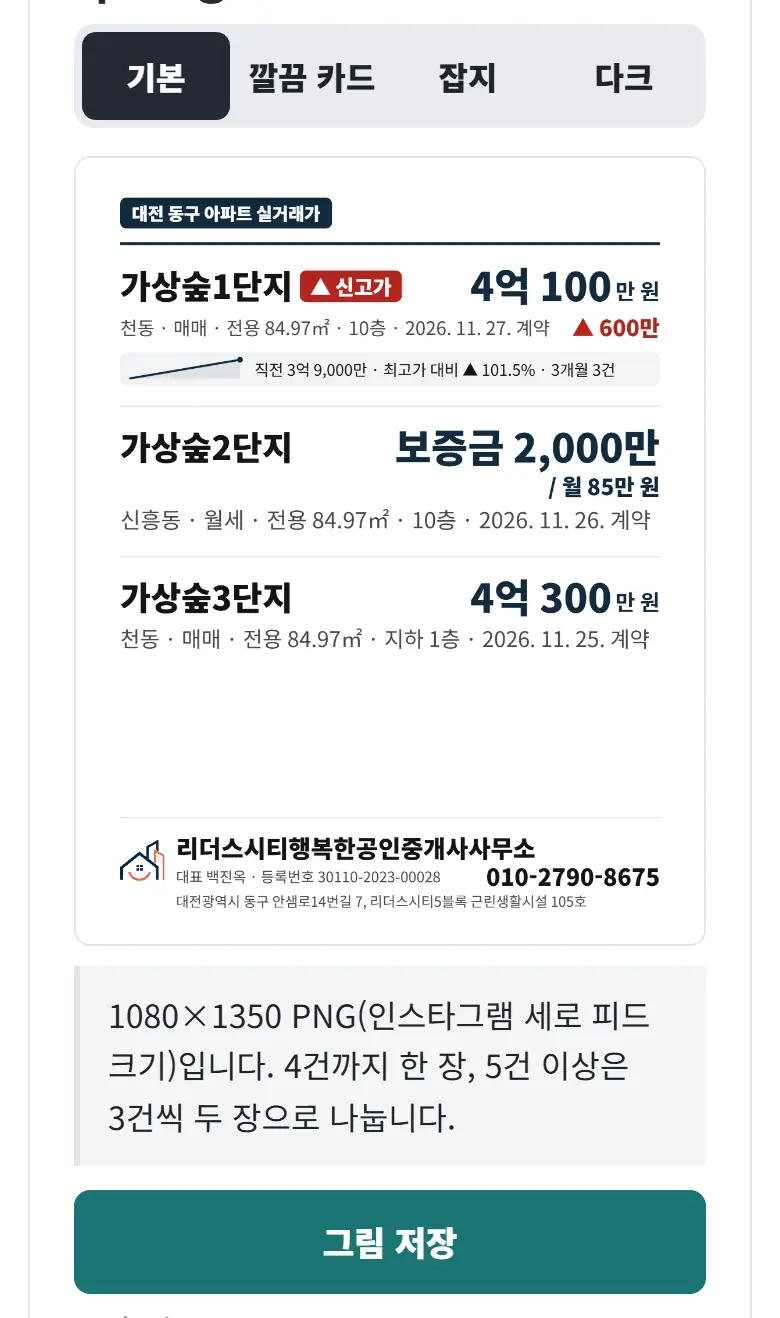
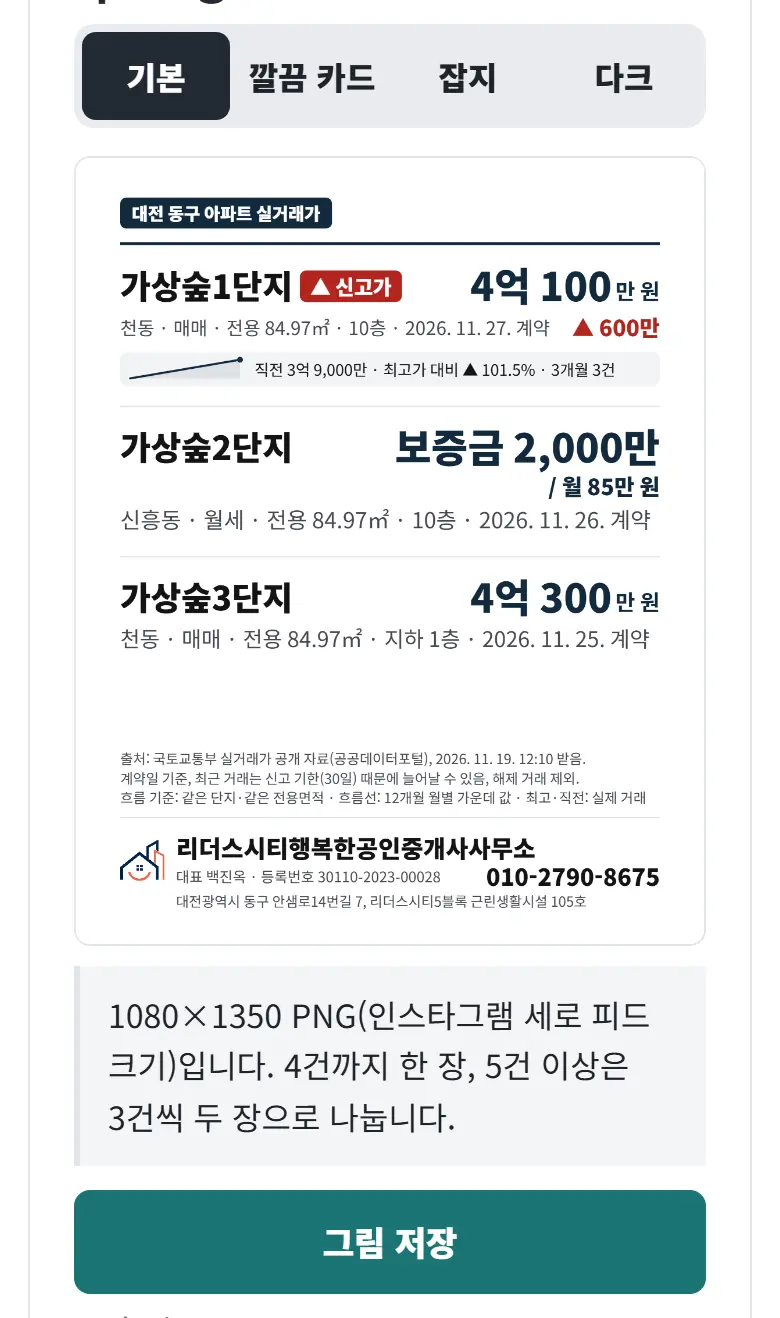
스레드 글은 거래만 한 줄씩 적고 출처·사무소 정보는 그림에만 넣음
실거래가 홍보물의 스레드 글에서 출처·흐름 기준·사무소 명시사항을 빼고, 카드 그림 아래쪽에 출처·받은 시각·안내를 작은 글로 다시 넣었습니다.

- 문제: 스레드에 올리면 글 대부분이 출처·사무소 정보였고, 6건이면 거래가 "그림에 정리했습니다" 한 줄로 줄었습니다. 같은 정보가 글과 그림에 겹쳤습니다.
- 원인: 글 4가지가 모두 같은 꼬리(출처·사무소 명시사항)를 붙이게 되어 있었고, 그림에서는 출처를 뺀 상태였습니다.
- 고친 것: 올릴 곳마다 꼬리를 넣을지 정하는 표(PROMO_TEXT_TAIL) 하나를 두고 스레드만 뺐습니다. 500자를 넘으면 거래 줄을 짧게 쓰는 단계를 더했고, 카드에는 출처 두 줄과 흐름 기준 한 줄을 작은 글로 넣었습니다. 인스타그램·블로그·카카오톡 글은 그대로입니다.
- 확인: 단위 시험(npm test) 1194개 통과, 실거래가 화면 시험(e2e) 통과, 사용 안내 그림 3장 다시 찍음, 카드 모양 4가지 × 1 ~ 6건 그림을 눈으로 확인했습니다.

Changed region(s): [[0.1538, 0.5599, 0.8308, 0.6222]]

diff --git a/src/lib/work-realprice-card.ts b/src/lib/work-realprice-card.ts
@@ -2,7 +2,7 @@
 // canvas 1080×1350에 그리고 toDataURL('image/png')로 내려받는다(설계서 22.10절). 그림 자료는 src/lib/work/realprice-promo.mjs의
 // promoCards()가 만들고, 이 파일은 그리기만 한다(서버 요청·브라우저 저장 없음). 신고가는 색만이 아니라 "▲ 신고가" 글자로 알린다.
 // 모양: 기본(흰 바탕·남색 줄) · 깔끔 카드(회색 바탕에 흰 둥근 칸) · 잡지(위 띠가 로고 산호색) · 다크(남색 바탕·밝은 산호색 금액).
-import { PROMO_CARD_SIZE, priceSplit } from "./work/realprice-promo.mjs";
+import { PROMO_BASIS_LABEL, PROMO_CARD_SIZE, priceSplit } from "./work/realprice-promo.mjs";
 import { sparkGeometry } from "./work/realprice-insight-view.mjs";
 // 줄 나누기·글·가로줄·로고 자르기는 업무 카드 공통 파일(보드 45번 C)에서 가져온다.
 import { CARD_COLORS, font, hline, loadLogo, text, width, type Logo, type Pen } from "./work-card-draw";
@@ -27,6 +27,7 @@ export type PromoCard = {
   areaLabel: string;
   range: string;
   items: CardItem[];
+  source: string[];
   basis: string;
   style: PromoStyle;
   office: Office;
@@ -41,6 +42,8 @@ const MAXW = W - PAD * 2;
 const C = CARD_COLORS;
 const HIGH_LABEL = "▲ 신고가";
 const PRESALE_LABEL = "분양권";
+const NOTE_PX = 24; // 아래 칸 위 출처·흐름 기준 줄: 카드에서 가장 작은 글(소재지)과 같은 크기
+const NOTE_GAP = 16; // 출처·흐름 기준 줄과 아래 칸 회색 선 사이
 const BAND_YELLOW = "#FFEFB8"; // 잡지 머리 띠: 연한 노랑(2026-11-24 사용자 요청 "바탕색은 좀더 연하거나 노란색 계열", 그 전 산호 #F06951)
 
 type Theme = {
@@ -335,7 +338,9 @@ function markOf(logo: Logo): Mark {
 }
 
 // 아래 칸: 집 모양 + 상호(크고 굵게) / 대표·등록번호(작게) + 연락처(크게) / 소재지(작게). 사무소 명시사항 5항목이 모두 들어간다.
-// 출처 상자는 두지 않는다(2026-11-24 사용자 답 "완전히 뺌"). 본문 글자를 줄여도 아래 칸 글자는 줄이지 않는다.
+// 그 위(회색 선 위)에 작은 글로 출처 두 줄(출처·받은 시각 / 계약일 기준·신고 기한·해제 제외)과 흐름 기준 줄(그 장에 흐름을 그린 거래가 있을 때만)을 둔다
+// (2026-11-25 사용자 요청 "출처랑 명함부분은 … 표에만 나오게끔". 2026-11-24 "완전히 뺌"으로 뺐던 출처 상자·흐름 기준 줄을 상자 없이 작은 글로 되돌림).
+// 글자는 카드에서 가장 작은 글(소재지 24px)과 같고 길면 줄을 나눈다(자르지 않음). 본문 글자를 줄여도 아래 칸 글자는 줄이지 않는다. 돌려주는 값은 작은 글의 위 끝이다.
 function foot(pen: Pen, card: PromoCard, t: Theme, logo: Logo) {
   const o = card.office;
   const markW = 76;
@@ -359,11 +364,15 @@ function foot(pen: Pen, card: PromoCard, t: Theme, logo: Logo) {
     }
     return y;
   };
+  const notes = (y0: number) => [...card.source, card.basis ? `${PROMO_BASIS_LABEL}: ${card.basis}` : ""].filter(Boolean)
+    .reduce((y, value) => text(pen, value, PAD, y, { px: NOTE_PX, color: t.soft, lh: 1.4 }), y0);
   const h = measure(pen, () => body(0));
   const top = H - BOTTOM - h;
+  const noteTop = top - NOTE_GAP - measure(pen, () => notes(0));
+  notes(noteTop);
   if (pen.draw) { pen.ctx.fillStyle = t.panel ? "#D7DCE1" : t.edge; pen.ctx.fillRect(PAD, top, MAXW, 2); }
   body(top);
-  return top;
+  return noteTop;
 }
 
 export type CardResult = { dataUrl: string; overflow: boolean; minBodyPx: number };

diff --git a/docs/work-tools/리더스시티 행복한부동산 중개업무 도구 테스트 체크리스트.md b/docs/work-tools/리더스시티 행복한부동산 중개업무 도구 테스트 체크리스트.md
@@ -1066,8 +1066,8 @@
 |---|---|---|---|---|
 | TK-36 [화면] | 실거래가·실거래가 설정 화면을 360·768·1220·1221·1280px에서 가짜 API로 | 가로 넘침 0, 1220px 이하 세 줄 카드·1221px 이상 표, "신고가"·"해제"·"새로 들어옴"이 글자로 보임, 상태 화면 6가지, 키보드로 거르기·보기 바꾸기·30건 더 보기·관심 단지 찾기·넣기·빼기·지금 다시 받기 가능(목록 고르기·홍보물 만들기는 P1-e에서 같은 방법으로), 콘솔 오류 0. P1-f D안(2026-11-20): 휴대폰·PC 같은 순서, 상태 한 줄은 문제 있을 때만 펼침, 390×844에서 첫 거래 위쪽이 631px 이하(매매 채우는 중에도 첫 거래가 아래 탭 위에 다 보임), 거르기 단추 6개·찾기·다 담기·담기 단추가 44px 이상(마우스를 쓰는 1221px 이상 PC는 36px 이상, 2026-11-23), 찾기는 '찾기'·Enter일 때만(한글 조합 중 Enter 무시, 비우면 다시 전체), "주요 거래"는 `view=major` 한 번이고 기간·분양권만·종류·해제·직거래가 잠김, "신고가만"은 `limit=100`, 켜짐 줄·"모두 끄기", 0건이면 까닭과 바로 할 일 단추 | 검토·시험(Playwright) | 통과(PR #78 TR-11(2026-11-20 날개-2): 가짜 API로 두 화면 360·768·979·980·1220·1221·1280px 가로 넘침 0, 1220px 카드·1221px 표, '신고가'·'해제'·'새로 들어옴'·'직거래' 글자, 상태 화면(꺼짐·설정 누락·받기 전·처음 채우는 중·받기 멈춤·0건·불러오는 중·끝 상한 오류), 키보드로 거르기·보기 바꾸기·30건 더 보기·단지 찾기·넣기·빼기·지금 다시 받기, 콘솔 오류 0. PR #80 TR-11(2026-11-20 날개-2): 목록 고르기·홍보물 만들기 키보드(Space로 6건 → 막대 링크 Enter → 홍보물 화면 → 내려받기·라디오 화살표·글 칸·복사·인쇄), 고르기 막대가 보일 때 Tab 250번 포커스 가림 0(목록 360 ~ 1440px 10폭 + 홍보물 390·1280px, 부드러운 스크롤·움직임 줄이기). PR #81 TR-11(2026-11-20 날개-2): D안 390×844 첫 거래 위쪽 627px(기준 631 이하, 아래 탭 위에 다 보임), 거르기 단추 6개·찾기·다 담기·담기 44px 이상, 찾기 '찾기'·Enter만(한글 조합 중 Enter 무시), 주요 거래 `view=major` 한 번, 신고가만 `limit=100`, 모두 끄기, 0건 안내 단추, 콘솔 오류 0은 E2E 43 passed, 담기 막대가 보일 때 Tab 220번 가림 0(360 ~ 1440px 10폭 × 부드러운 스크롤·움직임 줄이기)) 2026-11-23 D-1 사본 시험 2026-11-23, 날개-2, 바탕 master 50c09c0: 1280px 확인을 36px 기준으로 바꾼 같은 E2E 통과(전체 E2E 188/188), 360 ~ 390px의 44px 확인은 그대로 |
 | TK-37 [화면] | 관리자 아래 단계 메뉴 | "실거래가"(P3 뒤 "글 초안")가 더해짐, 알약 줄(2026-11-23 전 이름은 작은 탭)이 넘치면 가로로 밀림(980px 이상도 같음), 탭 미리 그리기 prerender 목록에 단계 P 화면 없음(prefetch만), 업무 도구 첫 화면의 도구 3개 그대로 | 검토·시험(Playwright) | 통과(PR #78 TR-11(2026-11-20 날개-2): 업무 도구 아래 단계 다섯째에 '실거래가'가 더해짐(설정 화면에서는 지금 구역 `aria-current="true"`), 360px에서 작은 탭이 넘쳐 가로로 밀리고 처음 열 때 지금 탭이 오른쪽 16px 여백을 두고 보임(320 ~ 430px), prerender 규칙에 두 화면이 안 걸림(prefetch만, 시험 고정), 업무 도구 첫 화면 도구 3개 그대로, 관리 15화면 HTML 대조에서 기존 화면의 지금 표시 변화 0) 2026-11-23 D-1 사본 시험 2026-11-23, 날개-2, 바탕 master 50c09c0: 1280px에서 업무 도구 알약 11개가 한 줄에 다 들어가지 않아 마지막 '매물 안내지'가 지금 화면일 때 줄을 옮겨 두는지 `e2e/admin-listing-paper.spec.mjs` "PC 위 알약 줄 1280px"가 봄(통과). 폭마다 잰 값은 TU-15·TU-22 |
-| TK-38 | 홍보물 글 4가지(가상 거래 3건) | 출처·자료를 받은 시각·계약일 기준·신고 기한 안내·해제 제외 안내·사무소 명시사항 5항목이 붙음, 동 번호 0, 층 숫자 그대로, 금액이 자료와 같음. 해제된 거래는 고를 수 없음. 신고가가 있으면 판정 기준(2006년 1월 이후 매매와 비교)이 붙고, `recordHigh`가 null이면 "신고가" 말이 없음. 고른 뒤 해제된 거래·찾지 못한 거래는 빼고 건수를 알림. 명시사항이 비거나 받은 시각을 모르면 만들지 않음. 2026-11-25 보탬: 카드에 흐름을 그린 매매가 있을 때만 출처 줄 아래 "흐름 기준: …" 한 줄(그린 항목만, 카드 자료 `basis`와 같은 글), 흐름을 못 받았거나 전월세만이면 줄 없음, 스레드는 넣어서 500자를 넘으면 빼고 지금 글 그대로(결과 칸은 보탬 전 검토). 스레드 500자 안(`tests/work-realprice-promo.test.mjs`, `trades?ids=`는 `tests/work-realprice-query.test.mjs`. P1-f의 `q`·`view=major`와 `q`·`view` 없는 요청의 응답이 바꾸기 전과 같음도 같은 파일) | 검토·시험(자동) | 통과(PR #80 TR-11(2026-11-20 날개-2): 자동 시험 `tests/work-realprice-promo.test.mjs`·`work-realprice-query.test.mjs` 통과(`npm test` 499/499), 날개-2가 따로 만든 최악 자료(단지명 25자 이상, 동 번호·지번 칸에 표식 글자, 6·1·3건) 88가지 NG 0 — 글 4가지에 표식 0, 명시사항 5항목·출처·받은 시각·계약일 기준·신고 기한·해제 안내가 붙음, 신고가면 2006년 1월 기준 문구, `recordHigh` null이면 '신고가' 0, 명시사항 빈 칸·받은 시각 없음이면 만들지 않음, 스레드 363 / 500자. `trades?ids=` 7가지(형식·7개·두 번 → 400, 목록 매개변수와 섞으면 400, 해제·못 찾음), `ids` 없는 응답은 바탕 코드와 같음. PR #81 TR-11(2026-11-20 날개-2): `q`·`view` 없는 요청 13가지 응답이 바탕 코드(38821da)와 같음, `view=major`에 목록 매개변수(`to` 포함)가 같이 오면 400, 특수문자 `q` 9가지 200) |
-| TK-39 [화면] | 카드 그림 내려받기 | 1080×1350 PNG, 파일 이름 `realprice-YYYYMMDD.png`(두 장이면 `-1`·`-2`), 운영 CSP를 붙인 화면에서 CSP 위반 0, 그림 안 글자가 글 4가지와 같은 숫자(그림과 글이 같은 순수 함수 값을 씀). 목록 고르기는 최대 6건·해제 막음·키보드 Space, 360·768·1280px 가로 넘침 0. P1-f(2026-11-20): 목록은 '담기' 단추(✓ 담음·담을 수 없음), '위에서 6건 담기'는 해제를 건너뛰고 남은 자리만큼 담음. 홍보물 화면은 담은 거래 요약 → "어디에 올릴까요?"(인스타그램이 처음) → ① 그림 저장 ② (곳) 글 복사 ③ 붙여 넣기 순서 글이 올릴 곳에 맞춰 바뀌고, 누른 단추에 ✓ 표시가 남음. 인스타그램 해시태그 12개 안(고정·법정동·단지 이름 포함) | 검토·시험(Playwright) | 통과(PR #80 TR-11(2026-11-20 날개-2): 카드 2장 1080×1350, 파일 `realprice-20261120-1.png`·`-2.png`, 운영 CSP를 붙인 화면에서 위반 0, 360·390·430·768·979·980·1024·1280px 가로 넘침 0·콘솔 오류 0, 목록 고르기 해제 잠김·6건 뒤 나머지 잠김·키보드 Space. PR #81 TR-11(2026-11-20 날개-2): '담기'(✓ 담음)·'위에서 6건 담기'(해제 건너뜀)·누른 단추 ✓는 E2E, 올릴 곳 4개(인스타그램이 처음) → ② 복사 글 → ③ 붙여 넣기 글이 곳마다 바뀜(390px), 동 번호 표식 0. 해시태그 12개 안: PR #82(2026-11-20, 단위·E2E CI 통과) 뒤 master f7dc990 코드로 날개-2가 1 ~ 6건을 따로 세어 9·12·12·12·12·12개, 단지 이름 최대 3개 남음) |
+| TK-38 | 홍보물 글 4가지(가상 거래 3건) | 출처·자료를 받은 시각·계약일 기준·신고 기한 안내·해제 제외 안내·사무소 명시사항 5항목이 붙음, 동 번호 0, 층 숫자 그대로, 금액이 자료와 같음. 해제된 거래는 고를 수 없음. 신고가가 있으면 판정 기준(2006년 1월 이후 매매와 비교)이 붙고, `recordHigh`가 null이면 "신고가" 말이 없음. 고른 뒤 해제된 거래·찾지 못한 거래는 빼고 건수를 알림. 명시사항이 비거나 받은 시각을 모르면 만들지 않음. 2026-11-25 보탬: 카드에 흐름을 그린 매매가 있을 때만 출처 줄 아래 "흐름 기준: …" 한 줄(그린 항목만, 카드 자료 `basis`와 같은 글), 흐름을 못 받았거나 전월세만이면 줄 없음, 스레드는 넣어서 500자를 넘으면 빼고 지금 글 그대로(결과 칸은 보탬 전 검토). 2026-11-25 두 번째 보탬(스레드 꼬리, 사용자 요청 15:57:48): 스레드 글은 머리 줄·빈 줄·거래 한 줄씩(신고가가 있으면 판정 기준 한 줄)뿐이고 출처·받은 시각·안내·흐름 기준·사무소 명시사항이 없음(`PROMO_TEXT_TAIL`), 500자를 넘으면 거래 줄을 짧게('전용'·'계약'만 뺌) → 그래도 넘으면 '그림에 정리' 한 줄, 20자 단지 이름 6건도 한 줄씩 500자 안. 인스타그램·블로그·카카오톡 글은 그 전과 같음(결과 칸은 보탬 전 검토). 스레드 500자 안(`tests/work-realprice-promo.test.mjs`, `trades?ids=`는 `tests/work-realprice-query.test.mjs`. P1-f의 `q`·`view=major`와 `q`·`view` 없는 요청의 응답이 바꾸기 전과 같음도 같은 파일) | 검토·시험(자동) | 통과(PR #80 TR-11(2026-11-20 날개-2): 자동 시험 `tests/work-realprice-promo.test.mjs`·`work-realprice-query.test.mjs` 통과(`npm test` 499/499), 날개-2가 따로 만든 최악 자료(단지명 25자 이상, 동 번호·지번 칸에 표식 글자, 6·1·3건) 88가지 NG 0 — 글 4가지에 표식 0, 명시사항 5항목·출처·받은 시각·계약일 기준·신고 기한·해제 안내가 붙음, 신고가면 2006년 1월 기준 문구, `recordHigh` null이면 '신고가' 0, 명시사항 빈 칸·받은 시각 없음이면 만들지 않음, 스레드 363 / 500자. `trades?ids=` 7가지(형식·7개·두 번 → 400, 목록 매개변수와 섞으면 400, 해제·못 찾음), `ids` 없는 응답은 바탕 코드와 같음. PR #81 TR-11(2026-11-20 날개-2): `q`·`view` 없는 요청 13가지 응답이 바탕 코드(38821da)와 같음, `view=major`에 목록 매개변수(`to` 포함)가 같이 오면 400, 특수문자 `q` 9가지 200) |
+| TK-39 [화면] | 카드 그림 내려받기 | 1080×1350 PNG, 파일 이름 `realprice-YYYYMMDD.png`(두 장이면 `-1`·`-2`), 운영 CSP를 붙인 화면에서 CSP 위반 0, 그림 안 글자가 글 4가지와 같은 숫자(그림과 글이 같은 순수 함수 값을 씀). 목록 고르기는 최대 6건·해제 막음·키보드 Space, 360·768·1280px 가로 넘침 0. P1-f(2026-11-20): 목록은 '담기' 단추(✓ 담음·담을 수 없음), '위에서 6건 담기'는 해제를 건너뛰고 남은 자리만큼 담음. 홍보물 화면은 담은 거래 요약 → "어디에 올릴까요?"(인스타그램이 처음) → ① 그림 저장 ② (곳) 글 복사 ③ 붙여 넣기 순서 글이 올릴 곳에 맞춰 바뀌고, 누른 단추에 ✓ 표시가 남음. 인스타그램 해시태그 12개 안(고정·법정동·단지 이름 포함). 2026-11-25 보탬(그림 출처): 카드 아래 칸 회색 선 위 24px 작은 글로 출처·받은 시각, 계약일 기준·신고 기한·해제 제외 안내, 흐름을 그린 장에만 흐름 기준 줄이 있고 4모양 모두 그림 밖·위아래로 잘린 글자 0(결과 칸은 보탬 전 검토) | 검토·시험(Playwright) | 통과(PR #80 TR-11(2026-11-20 날개-2): 카드 2장 1080×1350, 파일 `realprice-20261120-1.png`·`-2.png`, 운영 CSP를 붙인 화면에서 위반 0, 360·390·430·768·979·980·1024·1280px 가로 넘침 0·콘솔 오류 0, 목록 고르기 해제 잠김·6건 뒤 나머지 잠김·키보드 Space. PR #81 TR-11(2026-11-20 날개-2): '담기'(✓ 담음)·'위에서 6건 담기'(해제 건너뜀)·누른 단추 ✓는 E2E, 올릴 곳 4개(인스타그램이 처음) → ② 복사 글 → ③ 붙여 넣기 글이 곳마다 바뀜(390px), 동 번호 표식 0. 해시태그 12개 안: PR #82(2026-11-20, 단위·E2E CI 통과) 뒤 master f7dc990 코드로 날개-2가 1 ~ 6건을 따로 세어 9·12·12·12·12·12개, 단지 이름 최대 3개 남음) |
 | TK-40 [수동] | A4 인쇄 미리보기·PDF로 저장 | 한 장, 메뉴·단추 없음, 글자 잘림 없음(자동 보조: E2E가 인쇄 미디어에서 메뉴·단추 숨김과 PDF 1쪽을 확인, 실제 인쇄 창은 사람이 확인) | 검토·시험 | 미실행(자동 보조 통과, PR #80 TR-11(2026-11-20 날개-2): 인쇄 미디어에서 보이는 단추·링크·메뉴 0, PDF 1쪽(카드 1장·2장 모두). 실제 인쇄 미리보기 창은 사람이 확인) |
 
 ### 7a.6 실기기·운영 실측

diff --git a/DESIGN.md b/DESIGN.md
@@ -358,8 +358,8 @@ components:
 ### 실거래가 홍보물(단계 P P1-e 운영자 승인 2026-11-20 10:43:09, 2026-11-24 새 모양: 사용자 답 2026-11-24 10:24:08 "화면 배치까지"·출처 상자 "완전히 뺌"·"상호를 크게"·흐름 줄 "지금 그대로", 10:46:13 처음 모양 "기본 (추천)"·"4곳까지 1장 (추천)"(비율은 지금처럼 4:5)·딱지 "▲ 신고가 (추천)")
 
 - 목록 담기(2026-11-24): 글자 없는 체크칸. 누르는 곳은 44px 칸 전체(진짜 체크 칸을 투명하게 덮음), 보이는 것은 26px 네모(1221px 이상 + 마우스는 36px 칸·22px 네모). 담으면 남색 바탕 흰 ✓, 해제 거래·다 찬 뒤 나머지는 옅은 회색 네모로 잠근다. 담은 줄은 옅은 남색 바탕. 1221px 이상 표는 맨 앞 열 "담기", 1220px 이하 카드는 오른쪽 아래(넷째 줄 '흐름·직전 거래' 끝). 시안처럼 카드 왼쪽에 두면 줄마다 48px이 줄어 390px에서 첫째 줄(단지 이름·딱지·전용면적)이 꺾여 첫 카드가 아래 탭에 가리므로 오른쪽 아래에 둔다. 딱지는 단지 이름 옆("▲ 신고가" 남색, "분양권" 옅은 남색 바탕 남색 글자), 신고가 거래는 금액 옆(표는 금액 아래)에 빨간 굵은 "▲ 300만"(앞선 최고보다 오른 금액, 화면 읽기는 "앞선 최고보다"를 덧붙임). 하나라도 담으면 목록 아래에 남색 윗선 막대("담은 거래 n건" · 검정 주 단추 "홍보물 만들기" · "비우기")가 붙는다. 979px 이하는 막대를 한 줄로 아래 탭 위에 둔다.
-- 카드 그림(1080×1350, 4:5): 모양 4가지 — 기본(흰 종이, 남색 칩·줄, 처음 모양), 깔끔 카드(#EEF1F4 바탕에 흰 둥근 판), 잡지(머리 띠 연한 노랑 #FFEFB8, 칩 검정. 2026-11-24 전에는 산호 #F06951), 다크(남색 바탕, 금액 #FFB49F). 위 칸은 "대전 동구 아파트 실거래가" 칩(받은 시각은 그림에 넣지 않고 글에만)과, 1건일 때만 제목("가상숲1단지 매매 신고가", 단지 이름이 제목에만 있음). 여러 건 제목("실거래 n건 · n/m장")·계약일 범위·흐름선 기준 줄은 그리지 않는다(2026-11-24 사용자 요청). 1건은 딱지·설명 → 큰 금액(100px 숫자 + 작은 단위) + 오른쪽 "▲ 오름 폭" → "○ 직전 거래" → 큰 흐름선(앞선 최고 점선, 남는 자리만큼 최대 240px 더 키움) → 칸 3개(앞선 최고·최고가 대비·최근 3개월). 여러 건은 줄마다 단지 이름 + 딱지, 오른쪽 금액(숫자 + 작은 단위) → 지역·종류·전용면적·층·계약일 + "▲ 오름 폭" → 회색 흐름 줄(흐름선 150px + 직전·대비·3개월 글). 신고가는 "▲ 신고가" 빨강(#B3261E, 다크는 #FF8A73), 분양권은 옅은 남색 딱지. 긴 단지 이름은 85%까지 줄인 뒤 끝을 "…"로 줄인다.
-- 카드 아래 칸(줄이지 않음): 회색 선 → 로고에서 자른 집 모양(다크는 흰 둥근 판 위) + 상호 42px 굵게, "대표 · 등록번호" 25px, 오른쪽 연락처 40px 굵게, 소재지 24px. 출처 상자·신고 기한 안내·신고가 판정 기준은 그림에서 빼고 글 4가지에만 둔다. 받은 시각을 모르거나 명시사항 5항목이 비면 만들지 않는다(그대로). 동 번호는 넣지 않는다.
+- 카드 그림(1080×1350, 4:5): 모양 4가지 — 기본(흰 종이, 남색 칩·줄, 처음 모양), 깔끔 카드(#EEF1F4 바탕에 흰 둥근 판), 잡지(머리 띠 연한 노랑 #FFEFB8, 칩 검정. 2026-11-24 전에는 산호 #F06951), 다크(남색 바탕, 금액 #FFB49F). 위 칸은 "대전 동구 아파트 실거래가" 칩(받은 시각은 위 칸에 넣지 않고 아래 칸 위 작은 글에)과, 1건일 때만 제목("가상숲1단지 매매 신고가", 단지 이름이 제목에만 있음). 여러 건 제목("실거래 n건 · n/m장")·계약일 범위는 그리지 않는다(2026-11-24 사용자 요청. 흐름선 기준 줄은 2026-11-25부터 아래 칸 위 작은 글로 그림). 1건은 딱지·설명 → 큰 금액(100px 숫자 + 작은 단위) + 오른쪽 "▲ 오름 폭" → "○ 직전 거래" → 큰 흐름선(앞선 최고 점선, 남는 자리만큼 최대 240px 더 키움) → 칸 3개(앞선 최고·최고가 대비·최근 3개월). 여러 건은 줄마다 단지 이름 + 딱지, 오른쪽 금액(숫자 + 작은 단위) → 지역·종류·전용면적·층·계약일 + "▲ 오름 폭" → 회색 흐름 줄(흐름선 150px + 직전·대비·3개월 글). 신고가는 "▲ 신고가" 빨강(#B3261E, 다크는 #FF8A73), 분양권은 옅은 남색 딱지. 긴 단지 이름은 85%까지 줄인 뒤 끝을 "…"로 줄인다.
+- 카드 아래 칸(줄이지 않음): 회색 선 → 로고에서 자른 집 모양(다크는 흰 둥근 판 위) + 상호 42px 굵게, "대표 · 등록번호" 25px, 오른쪽 연락처 40px 굵게, 소재지 24px. 회색 선 위에는 작은 글(24px, 옅은 글자색, 길면 줄을 나눔)로 "출처: 국토교통부 실거래가 공개 자료(공공데이터포털), (받은 시각) 받음." → 계약일 기준·신고 기한·해제 제외 짧은 안내 → 흐름을 그린 장에만 "흐름 기준: …"을 둔다(2026-11-25 사용자 요청 "출처랑 명함부분은 한군데만 나오면 되니까 표에만 나오게끔". 상자는 두지 않음, 스레드 글에서는 출처·명시사항을 뺌). 신고가 판정 기준은 그림에서 빼고 글 4가지에만 둔다. 받은 시각을 모르거나 명시사항 5항목이 비면 만들지 않는다(그대로). 동 번호는 넣지 않는다.
 - 4건까지 한 장, 5건은 3 + 2, 6건은 3 + 3(담기 최대 6건 그대로). 여러 건은 아래 칸 위에 자리가 남으면 거래 줄을 1.45배까지 키우고(회색 흐름 줄 글자는 키우지 않고, 키운 배율이 1배보다 글을 더 자르면 쓰지 않음), 겹치면 본문만 5%씩 80%까지 줄인다.
 - 홍보물 화면(2026-11-24 새 모양): 위 2px 남색 선의 담은 거래 요약(단지 · 종류 / 금액, 밑줄 "← 거래 다시 고르기") → "카드 모양" 띠(회색 바탕 4칸 기본·깔끔 카드·잡지·다크, 44px, 고른 칸 남색 바탕) → 카드 그림(펼쳐 보임) → 크기 설명 → "그림 저장"(두 장이면 "1장 저장"·"2장 저장", 52px 주 단추, 누르면 남색 테두리 흰 바탕 "✓ … 저장함") → "올릴 곳에 맞춘 글 복사" 단추 4개(인스타그램·스레드·블로그·카카오톡, 979px 이하 2×2·760px 이상 4칸, 56px, 이름 굵게 + 아래 작은 "글 복사", 누른 단추만 남색 바탕 "✓ 복사됨") → 그 아래 한 줄(글자 수·해시태그 수 + 그 앱에서 할 일) → 접힌 "글 미리 보기"(마지막으로 누른 곳 글) → 맨 아래 "종이로 뽑기(A4)". 모양을 바꾸면 서버를 부르지 않고 다시 그리며 저장·복사 표시는 지운다. 고른 모양은 화면 메모리에만 두고 브라우저 저장소에 넣지 않는다(화면을 떠나면 기본). 자동 복사가 막히면 글 미리 보기를 펼쳐 글을 골라 둔다. 목록 오른쪽 미리보기 칸(1221px 이상)도 같은 모양 띠(마우스 PC 36px)·올릴 곳 단추 4개(늘 2×2, 마우스 PC 48px)를 쓴다. 인쇄는 카드 그림만 A4 세로 한 장(1장 150mm, 2장 88mm씩 나란히).
 

diff --git a/docs/work-tools/리더스시티 행복한부동산 중개업무 도구 설계서.md b/docs/work-tools/리더스시티 행복한부동산 중개업무 도구 설계서.md
@@ -3010,6 +3010,12 @@ WHERE p.cancelled = 0 AND (p.dealing_gbn IS NULL OR p.dealing_gbn = 'broker');
   - 홍보물 화면: 카드 모양 라디오(`name=promo-style`) → 카드 그림 → 그림 저장 → 올릴 곳 단추 4개(`data-promo-copy`, 누르면 그곳 글을 복사하고 그 단추만 "✓ 복사됨", 아래 줄에 `promoSteps`의 글자 수·할 일) → 접힌 글 미리 보기(마지막으로 누른 곳, 처음은 인스타그램) → A4. 자동 복사가 막히면 글 미리 보기를 펼쳐 글을 골라 둔다. 미리보기 칸(1221px 이상)도 같은 라디오(`name=rt-promo-style`)·단추(`data-rt-preview-copy`)를 쓰고, 모양만 바뀌면 이미 다시 읽은 거래로 그린다.
   - 목록: 담기 칸을 표 맨 앞 열로 옮기고 체크칸 모양(`span.rt-pick-mark`)으로 바꿨다(1220px 이하 카드는 오른쪽 아래 그대로, 390px 첫째 줄이 꺾이지 않게). 딱지 "분양권"·"신고가"는 단지 이름 칸, 신고가 오름 폭(`small.rt-up`)은 금액 칸에 둔다.
   - 시험: `tests/work-realprice-promo.test.mjs`(장 수·모양·금액 나누기·오름 폭·그림 자료에 출처 없음·글에는 남음), `e2e/admin-realprice.spec.mjs`(체크칸 상태·딱지·▲, 모양 바꾸기·올릴 곳 단추·복사 막힘, 4건 한 장·5건 두 장, 긴 단지 이름이 4모양 모두 그림 밖으로 나가지 않고 "…"로 줄어듦).
+- 스레드 꼬리·그림 출처(2026-11-25, 사용자 요청 15:57:48 "쓰레드에 올려봤는데 아래 그림처럼 설명나오고 표가 들어가면 좋겠어. 그리고 출처랑 명함부분은 한군데만 나오면 되니까 표에만 나오게끔 고쳐줘", '표' = 카드 그림으로 읽음): 위 '글 4가지 틀'·'자동으로 붙는 것'의 스레드 설명과 '새 모양' 그림 자료 줄의 출처 설명을 대신한다.
+  - 올릴 곳마다 글 끝에 붙일 것은 표 `PROMO_TEXT_TAIL`(`source`: 출처·받은 시각·계약일 기준 안내와 흐름 기준 줄, `office`: 사무소 명시사항) 한 곳이다. 지금은 스레드만 둘 다 `false`이고 인스타그램·블로그·카카오톡은 그 전 글 그대로다(그 줄만 `false`로 바꾸면 빠짐). 신고가 판정 기준 줄은 이 표와 상관없이 신고가 거래가 있으면 글에 남는다.
+  - 스레드 글: 머리 줄 → 빈 줄 → 1건은 자세히, 여러 건은 한 줄씩(신고가가 있으면 빈 줄 + 판정 기준 한 줄). 500자를 넘으면 거래 줄을 짧게('전용'·'계약' 낱말만 빼고 숫자는 그대로, `tightLine`), 그래도 넘으면 거래 줄 대신 "거래 n건(계약일 …)은 그림에 정리했습니다". 가상 6건(신고가 2건) 423자, 20자 단지 이름 6건은 짧은 줄로 월세 482자·신고가 매매 485자.
+  - 카드 그림(`promoCards`의 `source`·`basis`): 2026-11-24에 뺐던 출처를 상자 없이 아래 칸 회색 선 위 작은 글(24px, 소재지와 같은 크기, 길면 줄을 나누고 자르지 않음)로 장마다 되돌렸다. 순서는 "출처: 국토교통부 실거래가 공개 자료(공공데이터포털), (받은 시각) 받음." → 계약일 기준·신고 기한(30일)·해제 거래 제외 짧은 안내 → 흐름을 그린 장에만 "흐름 기준: …"이다(출처 줄이 24px 한 줄에 다 들어가지 않아 2줄 + 흐름 기준 1줄). 사무소 명시사항 5항목은 그대로 아래 칸에 있고, 신고가 판정 기준은 그림에 넣지 않는다. 본문이 겹치면 줄이는 규칙(0.8배, `overflow`)은 그대로이고, 1건 흐름선은 남는 자리만큼(최대 240px) 키우므로 작은 글 몫만큼 덜 커진다.
+  - 이 줄 때문에 위 '새 모양' 줄의 추가 확인 필요(카드만 따로 보내면 출처가 없음)는 풀렸다.
+  - 시험: `tests/work-realprice-promo.test.mjs`(스레드 글에 출처·명시사항 없음, 거래 줄 수, 짧은 줄 단계, 판정 기준 줄은 신고가 있을 때만, 표 값을 바꾸면 그 글만 바뀜, 그림 출처 두 줄·흐름 기준은 흐름을 그린 장에만), `e2e/admin-realprice.spec.mjs`(스레드 복사 글에 출처·연락처 없음, 4건 한 장 4모양 그림에 출처·받은 시각·계약일 기준 글이 있고 그림 밖·위아래로 잘린 글자 0).
 
 ### 22.11 AI 블로그 글 초안(P3)
 

diff --git a/docs/리더스시티 행복한부동산 관리자시스템 개발 진행 체크리스트.md b/docs/리더스시티 행복한부동산 관리자시스템 개발 진행 체크리스트.md
@@ -33,7 +33,7 @@
 
 ## 2026-11-24 실거래가 홍보물 새 모양
 
-- [x] 홍보물 카드: 모양 4가지(기본·깔끔 카드·잡지·다크, 처음 기본), 4건까지 한 장(5건 3 + 2, 6건 3 + 3, 담기 최대 6건 그대로), 비율 4:5, 딱지 "▲ 신고가", 신고가 오름 폭 "▲ 300만", 출처 상자·받은 시각 뺌(글 4가지에는 남김, 받은 시각을 모르면 안 만드는 규칙 그대로, 받은 시각은 11:41:13 "이것도 뺌"), 상호 크게·명시사항 5항목, 흐름 줄 그대로 — 사용자 답 2026-11-24 10:24:08 "화면 배치까지"·출처 상자 "완전히 뺌"·"상호를 크게"·흐름 줄 "지금 그대로", 10:46:13 처음 모양 "기본 (추천)"·"4곳까지 1장 (추천)"(비율은 지금처럼 4:5)·딱지 "▲ 신고가 (추천)".
+- [x] 홍보물 카드: 모양 4가지(기본·깔끔 카드·잡지·다크, 처음 기본), 4건까지 한 장(5건 3 + 2, 6건 3 + 3, 담기 최대 6건 그대로), 비율 4:5, 딱지 "▲ 신고가", 신고가 오름 폭 "▲ 300만", 출처 상자·받은 시각 뺌(글 4가지에는 남김, 받은 시각을 모르면 안 만드는 규칙 그대로, 받은 시각은 11:41:13 "이것도 뺌"), 상호 크게·명시사항 5항목, 흐름 줄 그대로 — 사용자 답 2026-11-24 10:24:08 "화면 배치까지"·출처 상자 "완전히 뺌"·"상호를 크게"·흐름 줄 "지금 그대로", 10:46:13 처음 모양 "기본 (추천)"·"4곳까지 1장 (추천)"(비율은 지금처럼 4:5)·딱지 "▲ 신고가 (추천)". 2026-11-25 사용자 요청(15:57:48 "출처랑 명함부분은 한군데만 나오면 되니까 표에만 나오게끔")으로 출처·받은 시각·계약일 기준 안내·흐름 기준은 카드 아래 칸 위 작은 글로 되돌리고, 스레드 글에서는 출처·흐름 기준·사무소 명시사항을 뺌(나머지 세 곳 글은 그대로).
 - [x] 홍보물 화면·목록 오른쪽 미리보기 칸: "카드 모양" 띠와 올릴 곳 단추 4개(누르면 그곳 글 복사, "✓ 복사됨"). 목록은 담기를 체크칸으로(표 맨 앞, 휴대폰 카드 오른쪽 아래), 딱지는 단지 이름 옆.
 - [ ] Android Chrome·iPhone Safari 실기기에서 체크칸 담기 → 모양 바꾸기 → 그림 저장 → 올릴 곳 단추 복사 확인(실기기 미확인).
 
